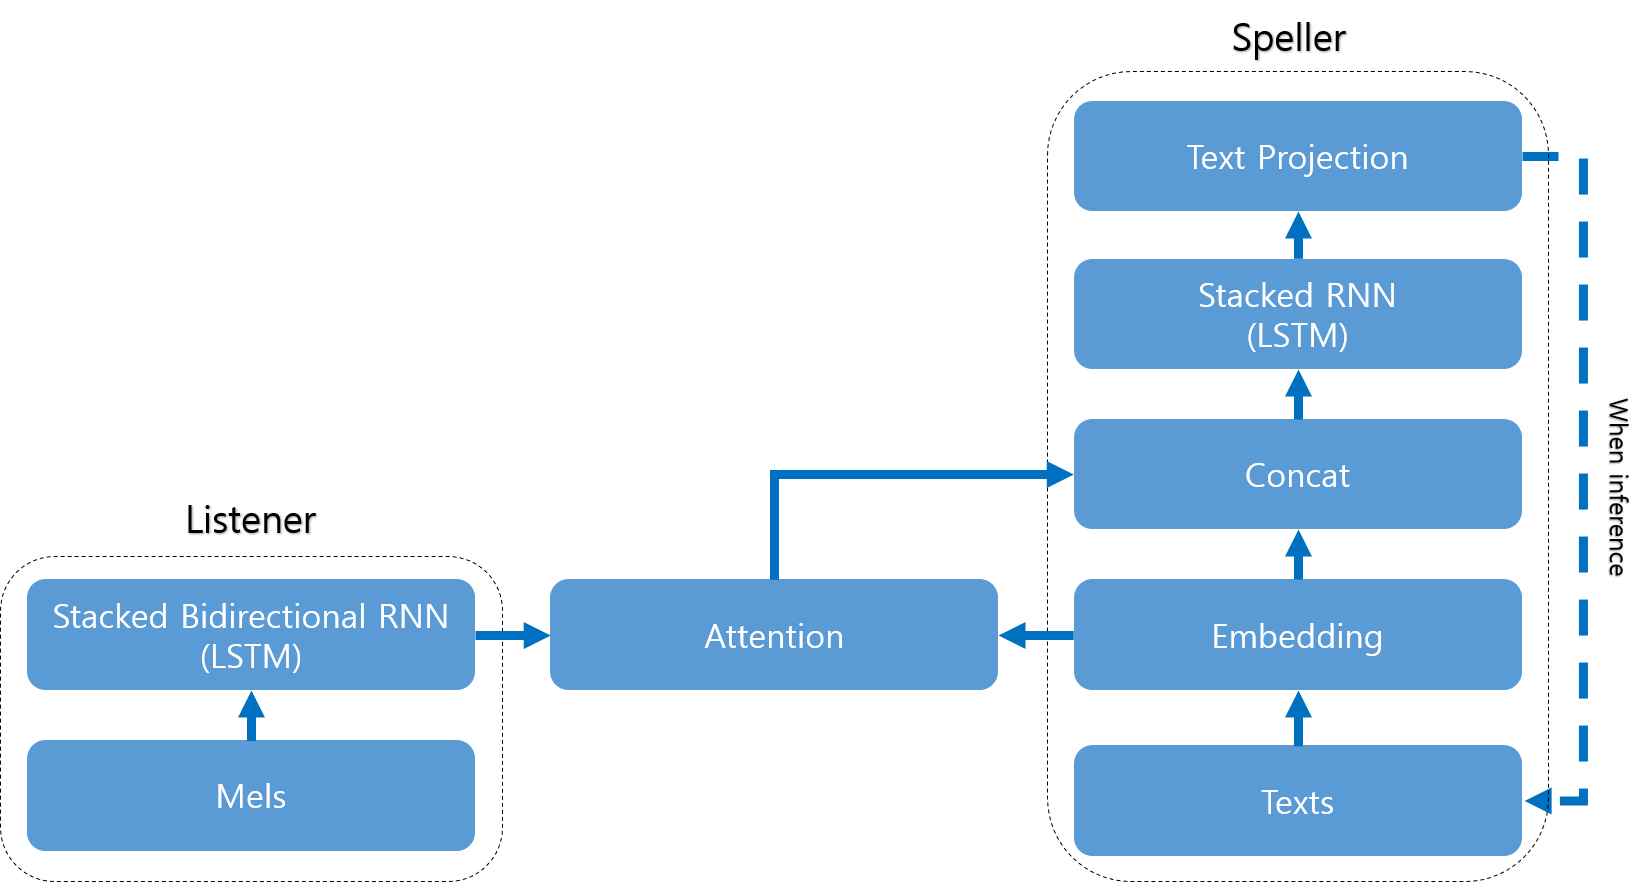
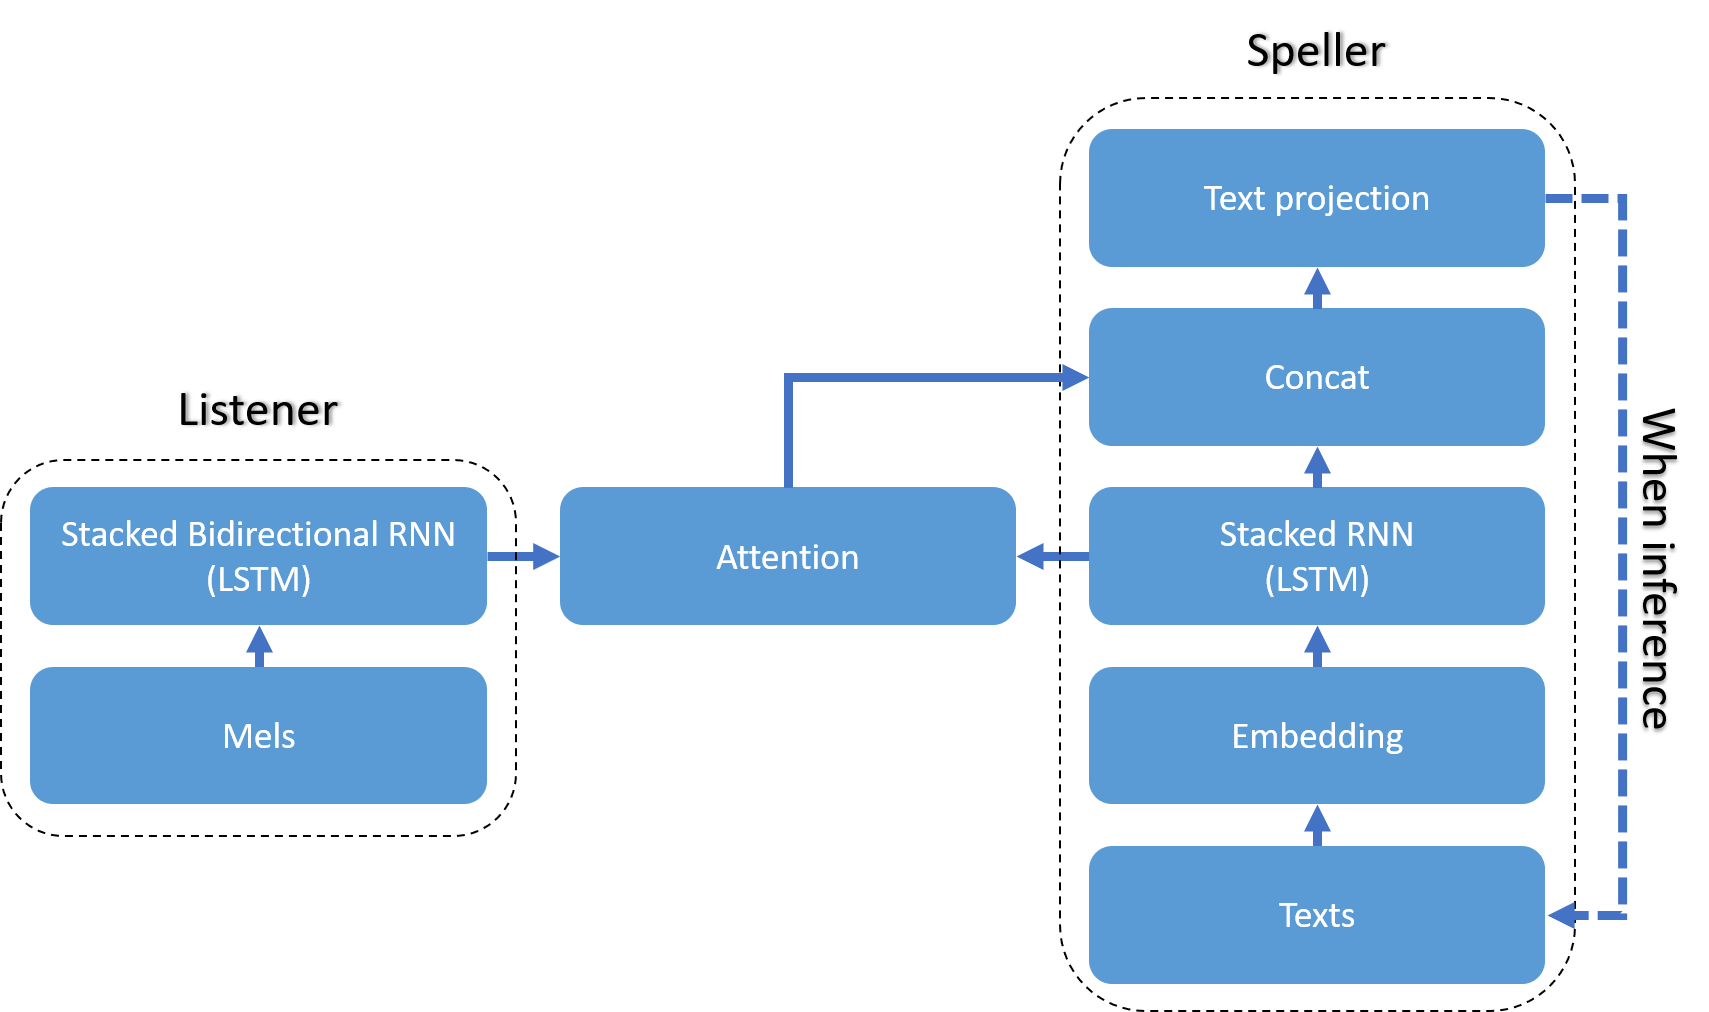
Final update.

diff --git a/Model.py b/Model.py
@@ -19,21 +19,42 @@ class LAS:
         self.Model_Generate()
 
     def Model_Generate(self):
-        self.layer_Dict = {}
-        self.layer_Dict['Mel'] = tf.keras.layers.Input(shape=[None, hp_Dict['Sound']['Mel_Dim']], dtype= tf.float32)
-        self.layer_Dict['Mel_Length'] = tf.keras.layers.Input(shape=[], dtype= tf.int32)
-        self.layer_Dict['Token'] = tf.keras.layers.Input(shape=[None,], dtype= tf.int32)        
-        self.layer_Dict['Listener'] = Modules.Listner()(self.layer_Dict['Mel'])
-        self.layer_Dict['Speller'], self.layer_Dict['Attention'] = Modules.Speller()([
-            self.layer_Dict['Token'],
-            self.layer_Dict['Listener'],
-            self.layer_Dict['Mel_Length']
+        layer_Dict = {}
+        layer_Dict['Mel'] = tf.keras.layers.Input(shape=[None, hp_Dict['Sound']['Mel_Dim']], dtype= tf.float32)
+        layer_Dict['Mel_Length'] = tf.keras.layers.Input(shape=[], dtype= tf.int32)
+        layer_Dict['Token'] = tf.keras.layers.Input(shape=[None,], dtype= tf.int32)        
+        layer_Dict['Inference_Listener'] = tf.keras.layers.Input(shape=[None, hp_Dict['Listener']['Uni_Direction_Cell_Size'][-1] * 2], dtype= tf.float32)
+        layer_Dict['Listener'] = Modules.Listner()(layer_Dict['Mel'])
+
+        layer_Dict['Speller'] = Modules.Speller()
+        layer_Dict['Train', 'Speller'], _ = layer_Dict['Speller']([
+            layer_Dict['Token'],
+            layer_Dict['Listener'],
+            layer_Dict['Mel_Length']
             ])
-        self.model = tf.keras.Model(
-            inputs=[self.layer_Dict['Mel'], self.layer_Dict['Mel_Length'], self.layer_Dict['Token']],
-            outputs= [self.layer_Dict['Speller'], self.layer_Dict['Attention']]
-            )
-        self.model.summary()
+        layer_Dict['Inference', 'Speller'], layer_Dict['Inference', 'Attention'] = layer_Dict['Speller']([
+            layer_Dict['Token'],
+            layer_Dict['Inference_Listener'],
+            layer_Dict['Mel_Length']
+            ])
+
+        self.model_Dict = {
+            'Train': tf.keras.Model(
+                inputs=[layer_Dict['Mel'], layer_Dict['Mel_Length'], layer_Dict['Token']],
+                outputs= layer_Dict['Train', 'Speller']
+                ),
+            ('Inference', 'Listener'): tf.keras.Model(  #Encoder의 반복적 계산을 막기 위함
+                inputs= layer_Dict['Mel'],
+                outputs= layer_Dict['Listener']
+                ),            
+            ('Inference', 'Speller'): tf.keras.Model(
+                inputs= [layer_Dict['Inference_Listener'], layer_Dict['Mel_Length'], layer_Dict['Token']],
+                outputs= [layer_Dict['Inference', 'Speller'], layer_Dict['Inference', 'Attention']]
+                ),            
+            }
+        self.model_Dict['Train'].summary()
+        self.model_Dict['Inference', 'Listener'].summary()
+        self.model_Dict['Inference', 'Speller'].summary()
 
         #optimizer는 @tf.function의 밖에 있어야 함
         self.optimizer = tf.keras.optimizers.Adam(
@@ -50,12 +71,12 @@ class LAS:
             tf.TensorSpec(shape=[None, None], dtype=tf.int32),
             tf.TensorSpec(shape=[None,], dtype=tf.int32)
             ],
-        autograph= False,
+        autograph= True,
         experimental_relax_shapes= True
         )
     def Train_Step(self, mels, mel_lengths, tokens, token_lengths):
         with tf.GradientTape() as tape:
-            logits, _ = self.model(inputs= [mels, mel_lengths, tokens[:, :-1]], training= True)
+            logits = self.model_Dict['Train'](inputs= [mels, mel_lengths, tokens[:, :-1]], training= True)
             loss = tf.nn.sparse_softmax_cross_entropy_with_logits(
                 labels= tokens[:, 1:],
                 logits= logits
@@ -66,27 +87,21 @@ class LAS:
                 dtype= tf.float32
                 )
             loss = tf.reduce_mean(loss)
-        gradients = tape.gradient(loss, self.model.trainable_variables)
-        self.optimizer.apply_gradients(zip(gradients, self.model.trainable_variables))
+        gradients = tape.gradient(loss, self.model_Dict['Train'].trainable_variables)
+        self.optimizer.apply_gradients(zip(gradients, self.model_Dict['Train'].trainable_variables))
 
         return loss
 
+    # @tf.function
+    def Inference_Listener_Step(self, mels):
+        return self.model_Dict['Inference', 'Listener'](inputs= mels, training= False)
 
     # Don't use @tf.function here. it makes slower.
-    # @tf.function(
-    # input_signature=[
-    #     tf.TensorSpec(shape=[None, None, hp_Dict['Sound']['Mel_Dim']], dtype=tf.float32),
-    #     tf.TensorSpec(shape=[None,], dtype=tf.int32),
-    #     tf.TensorSpec(shape=[None, 1], dtype=tf.int32)
-    #     ],
-    # autograph= True,
-    # experimental_relax_shapes= True
-    # )
-    def Inference_Step(self, mels, mel_lengths, initial_tokens):
-        tokens = tf.zeros(shape=[tf.shape(mels)[0], 0], dtype= tf.int32)
+    def Inference_Speller_Step(self, listeners, mel_lengths, initial_tokens):
+        tokens = tf.zeros(shape=[tf.shape(listeners)[0], 0], dtype= tf.int32)
         for _ in range(hp_Dict['Speller']['Max_Length']):
             tokens = tf.concat([initial_tokens, tokens], axis=-1)
-            logits, attention_History = self.model(inputs= [mels, mel_lengths, tokens], training= False)
+            logits, attention_History = self.model_Dict['Inference', 'Speller'](inputs= [listeners, mel_lengths, tokens], training= False)
             tokens = tf.argmax(logits, axis=-1, output_type= tf.int32)
 
         return tokens, attention_History
@@ -98,7 +113,7 @@ class LAS:
             print('There is no checkpoint.')
             return
 
-        self.model.load_weights(checkpoint_File_Path)
+        self.model_Dict['Train'].load_weights(checkpoint_File_Path)
         print('Checkpoint \'{}\' is loaded.'.format(checkpoint_File_Path))
 
     def Train(self):
@@ -126,7 +141,7 @@ class LAS:
 
             if step % hp_Dict['Train']['Checkpoint_Save_Timing'] == 0:
                 os.makedirs(os.path.join(hp_Dict['Checkpoint_Path']).replace("\\", "/"), exist_ok= True)
-                self.model.save_weights(os.path.join(hp_Dict['Checkpoint_Path'], 'CHECKPOINT.H5').replace('\\', '/'))
+                self.model_Dict['Train'].save_weights(os.path.join(hp_Dict['Checkpoint_Path'], 'CHECKPOINT.H5').replace('\\', '/'))
             
             if step % hp_Dict['Train']['Inference_Timing'] == 0:
                 Run_Inference()
@@ -135,7 +150,13 @@ class LAS:
         print('Inference running...')
         inference_Pattern = self.feeder.Get_Inference_Pattern(wav_Path_List)
 
-        tokens, attention_History = self.Inference_Step(**inference_Pattern)
+        listeners = self.Inference_Listener_Step(mels= inference_Pattern['mels'])
+
+        tokens, attention_History = self.Inference_Speller_Step(
+            listeners= listeners,
+            mel_lengths= inference_Pattern['mel_lengths'],
+            initial_tokens=inference_Pattern['initial_tokens']
+            )
 
         export_Inference_Thread = Thread(
             target= self.Export_Inference,

diff --git a/Modules.py b/Modules.py
@@ -54,12 +54,15 @@ class Speller(tf.keras.Model):
             input_dim= len(token_Index_Dict),
             output_dim= hp_Dict['Speller']['Embedding_Size']
             )
-        self.layer_Dict['Attention'] = Transformer(size= hp_Dict['Speller']['Attention_Size']) if hp_Dict['Speller']['Use_Transformer'] else BahdanauAttention(size= hp_Dict['Speller']['Attention_Size'])        
+
         for rnn_Index, cell_Size in enumerate(hp_Dict['Speller']['Cell_Size']):
             self.layer_Dict['RNN_{}'.format(rnn_Index)] = tf.keras.layers.LSTM(
                 units= cell_Size,
                 return_sequences= True
                 )
+
+        self.layer_Dict['Attention'] = Transformer(size= hp_Dict['Speller']['Attention_Size']) if hp_Dict['Speller']['Use_Transformer'] else BahdanauAttention(size= hp_Dict['Speller']['Attention_Size'])
+        
         self.layer_Dict['Projection'] = tf.keras.layers.Dense(
             units= len(token_Index_Dict),
             use_bias= True,
@@ -78,17 +81,18 @@ class Speller(tf.keras.Model):
         https://wikidocs.net/22893
         '''
         token_Tensor, value_Tensor, _ = inputs        
-        query_Tensor = self.layer_Dict['Embedding'](token_Tensor)
+        new_Tensor = self.layer_Dict['Embedding'](token_Tensor)
 
         # mel_length_Tensor += mel_length_Tensor % 2  #Making even value
         # value_Length_Tensor = mel_length_Tensor // tf.pow(2, len(hp_Dict['Listener']['Uni_Direction_Cell_Size']) - 1)   #encoder tensor length
         # value_Mask_Tensor = tf.sequence_mask(value_Length_Tensor, tf.shape(value_Tensor)[1])        
         #attention_Tensor, history_Tensor = self.layer_Dict['Attention'](inputs= [query_Tensor, value_Tensor], mask=[False, value_Mask_Tensor])
         
-        attention_Tensor, history_Tensor = self.layer_Dict['Attention'](inputs= [query_Tensor, value_Tensor])
-        new_Tensor = tf.concat([query_Tensor, attention_Tensor], axis= -1)
         for rnn_Index, _ in enumerate(hp_Dict['Speller']['Cell_Size']):
             new_Tensor = self.layer_Dict['RNN_{}'.format(rnn_Index)](new_Tensor)
+
+        attention_Tensor, history_Tensor = self.layer_Dict['Attention'](inputs= [new_Tensor, value_Tensor])
+        new_Tensor = tf.concat([new_Tensor, attention_Tensor], axis= -1)        
         new_Tensor = self.layer_Dict['Projection'](new_Tensor)
 
         return new_Tensor, history_Tensor

diff --git a/Attention_Modules.py b/Attention_Modules.py
@@ -44,7 +44,8 @@ class Transformer(tf.keras.layers.Attention):
             # Mask of shape [batch_size, Tq, 1].
             q_mask = tf.expand_dims(q_mask, axis=-1)
             result *= tf.cast(q_mask, dtype=result.dtype)
-        return result, attention_distribution
+
+        return result, attention_distribution#tf.reverse(attention_distribution, axis= [-1])
 
 class BahdanauAttention(tf.keras.layers.AdditiveAttention):
     '''
@@ -90,7 +91,8 @@ class BahdanauAttention(tf.keras.layers.AdditiveAttention):
             # Mask of shape [batch_size, Tq, 1].
             q_mask = tf.expand_dims(q_mask, axis=-1)
             result *= tf.cast(q_mask, dtype=result.dtype)
-        return result, attention_distribution
+        
+        return result, attention_distribution#tf.reverse(attention_distribution, axis= [-1])
 
 def _apply_scores(scores, value, scores_mask=None):
     if scores_mask is not None:

diff --git a/README.md b/README.md
@@ -79,14 +79,13 @@ The model stops learning only when you force stop (e.g. Ctrl + C).
 
 # Result
 
-* This result is with uploaded hyper parameters.
+* This result is based on uploaded hyper parameters.
+* Insufficient results
+    * Insufficient pattern is suspected the main cause
+    * Deciding that the model configuration was normal, so the project stopped at this point.
 
+* Trained pattern  
+<img src='./Figures/20191209.104407.IDX_0.PNG' width= 50% height=50%>
 
-# Trained checkpoint file
-
-# Future works
-
-* Find out why the attention formation failed
-    * Problem candidate 1: Insufficiency of model training epochs or patterns
-    * Problem candidate 2: Bug in code
-    * Problem candidate 3: TF 2.0 attention layers(tf.keras.layers.Attention | tf.keras.layers.AdditiveAttention) problem
+* Untrained pattern  
+<img src='./Figures/20191209.104407.IDX_1.PNG' width= 50% height=50%>
